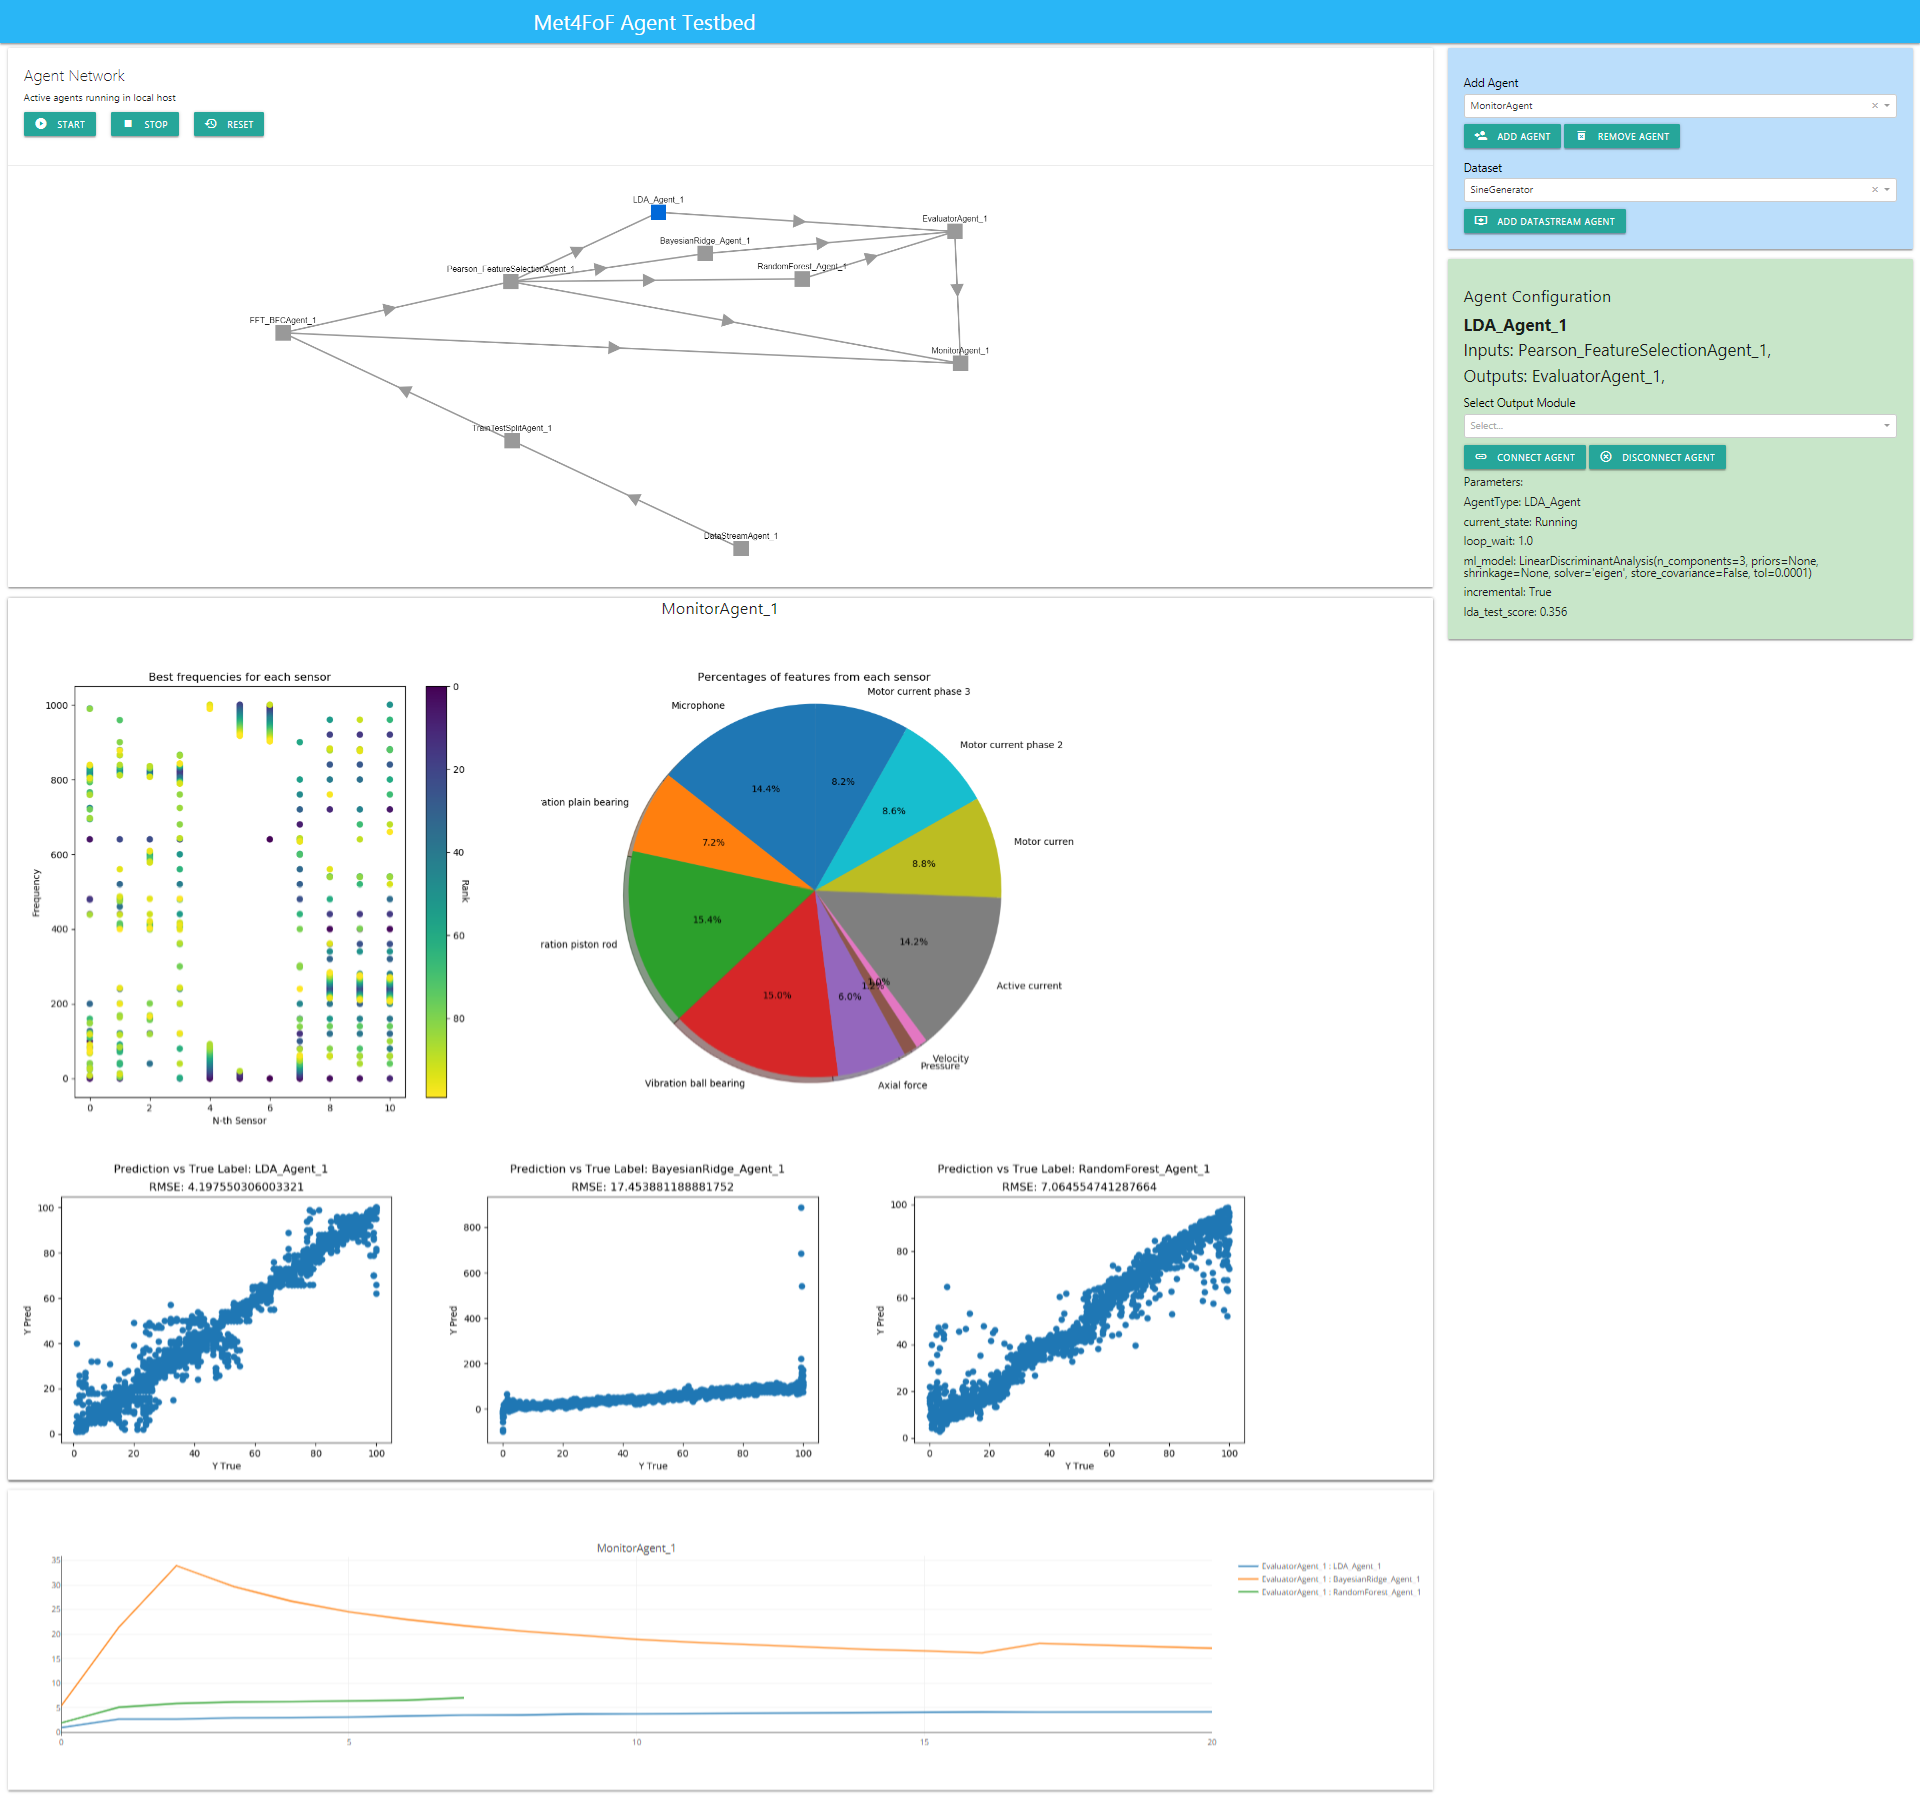
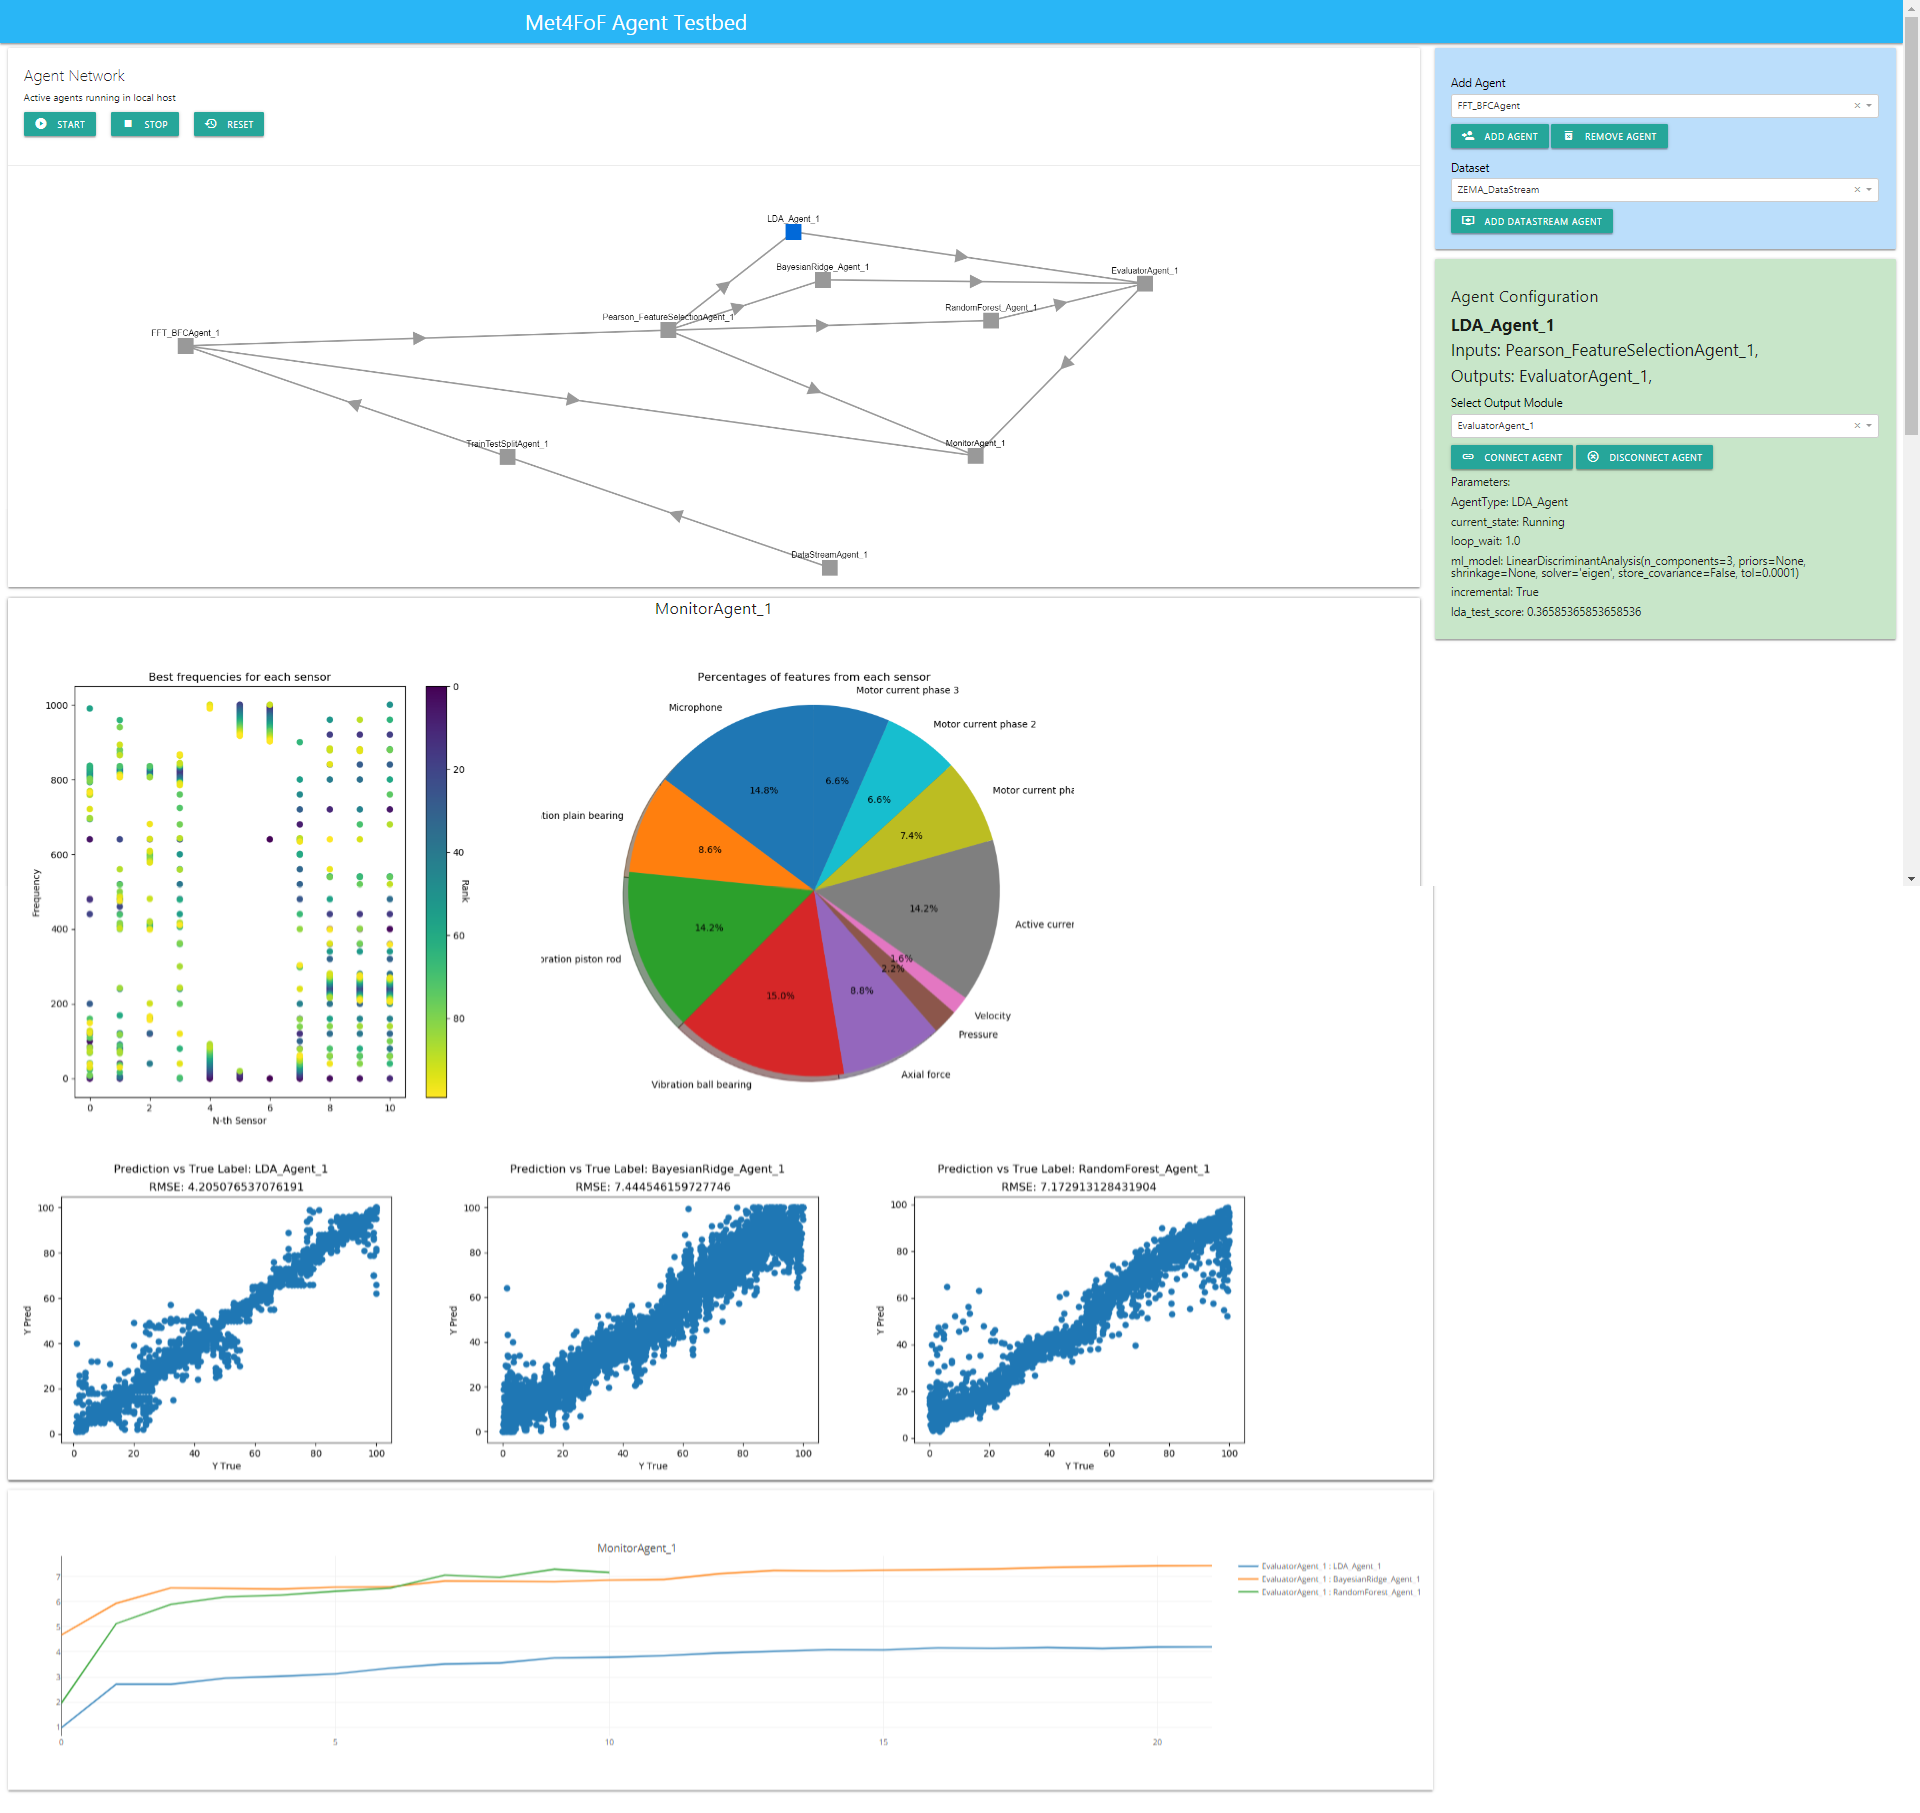
adjusted to clip regression agent

diff --git a/examples/ZEMA_EMC/zema_agents.py b/examples/ZEMA_EMC/zema_agents.py
@@ -166,7 +166,7 @@ class Regression_Agent(AgentMET4FOF):
             self.log_info("Overall Train Score: " + str(self.lin_model.score(x, y_true)))
         elif message['channel'] == 'test':
             y_true = message['data']['y'][0]
-            y_pred = self.lin_model.predict(message['data']['x'])
+            y_pred = self.lin_model.predict(message['data']['x']).clip(0, 100)
             self.send_output({'y_pred': y_pred, 'y_true': np.array(y_true)})
             self.log_info("Overall Test Score: " + str(self.lin_model.score(message['data']['x'], y_true)))
             self.reg_test_score = self.lin_model.score(message['data']['x'], y_true)
